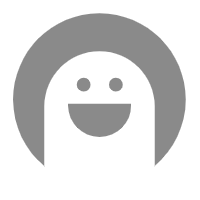
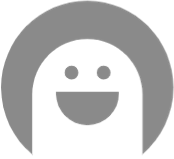
更换头像

Changed region(s): [[0.0, 0.0, 1.0, 0.9811], [0.3161, 0.3774, 0.6897, 0.805]]

diff --git a/Shared/Frontend/src/components/TaskSidebar.vue b/Shared/Frontend/src/components/TaskSidebar.vue
@@ -528,8 +528,8 @@ async function handleOpenSettings () {
 }
 
 .user-avatar-img {
-  width: 28px;
-  height: 28px;
+  width: 36px;
+  height: 36px;
   object-fit: contain;
   display: block;
   border-radius: 50%;
